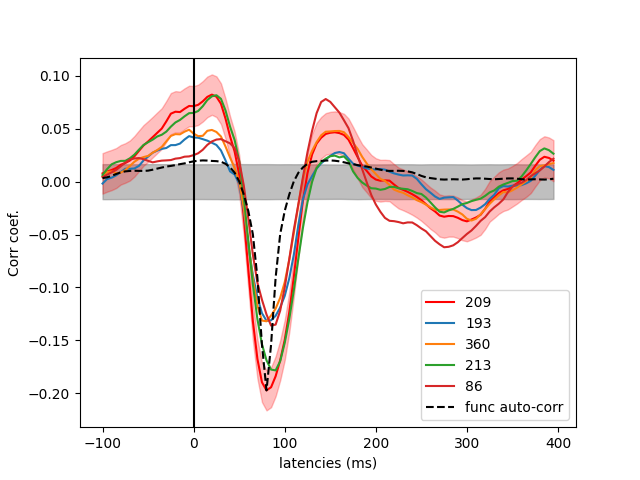
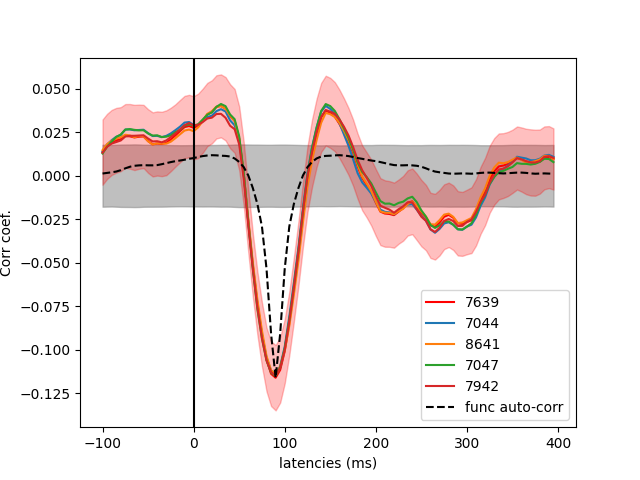
Update

diff --git a/invokers/run_gridsearch.py b/invokers/run_gridsearch.py
@@ -60,7 +60,7 @@ def main():
 
     # emeg_paths = [Path(emeg_dir, p + r) for p in participants[:2] for r in reps[-1:]]
 
-    inverse_operator = Path(args.base_dir, args.inverse_operator, f"{participants[0]}_ico5-3L-loose02-cps-nodepth.fif")
+    inverse_operator = Path(args.base_dir, args.inverse_operator, f"{participants[0]}_ico5-3L-loose02-cps-nodepth-eegonly-grandave.fif")
 
     # Load data
     emeg, ch_names = load_emeg_pack(emeg_paths,
